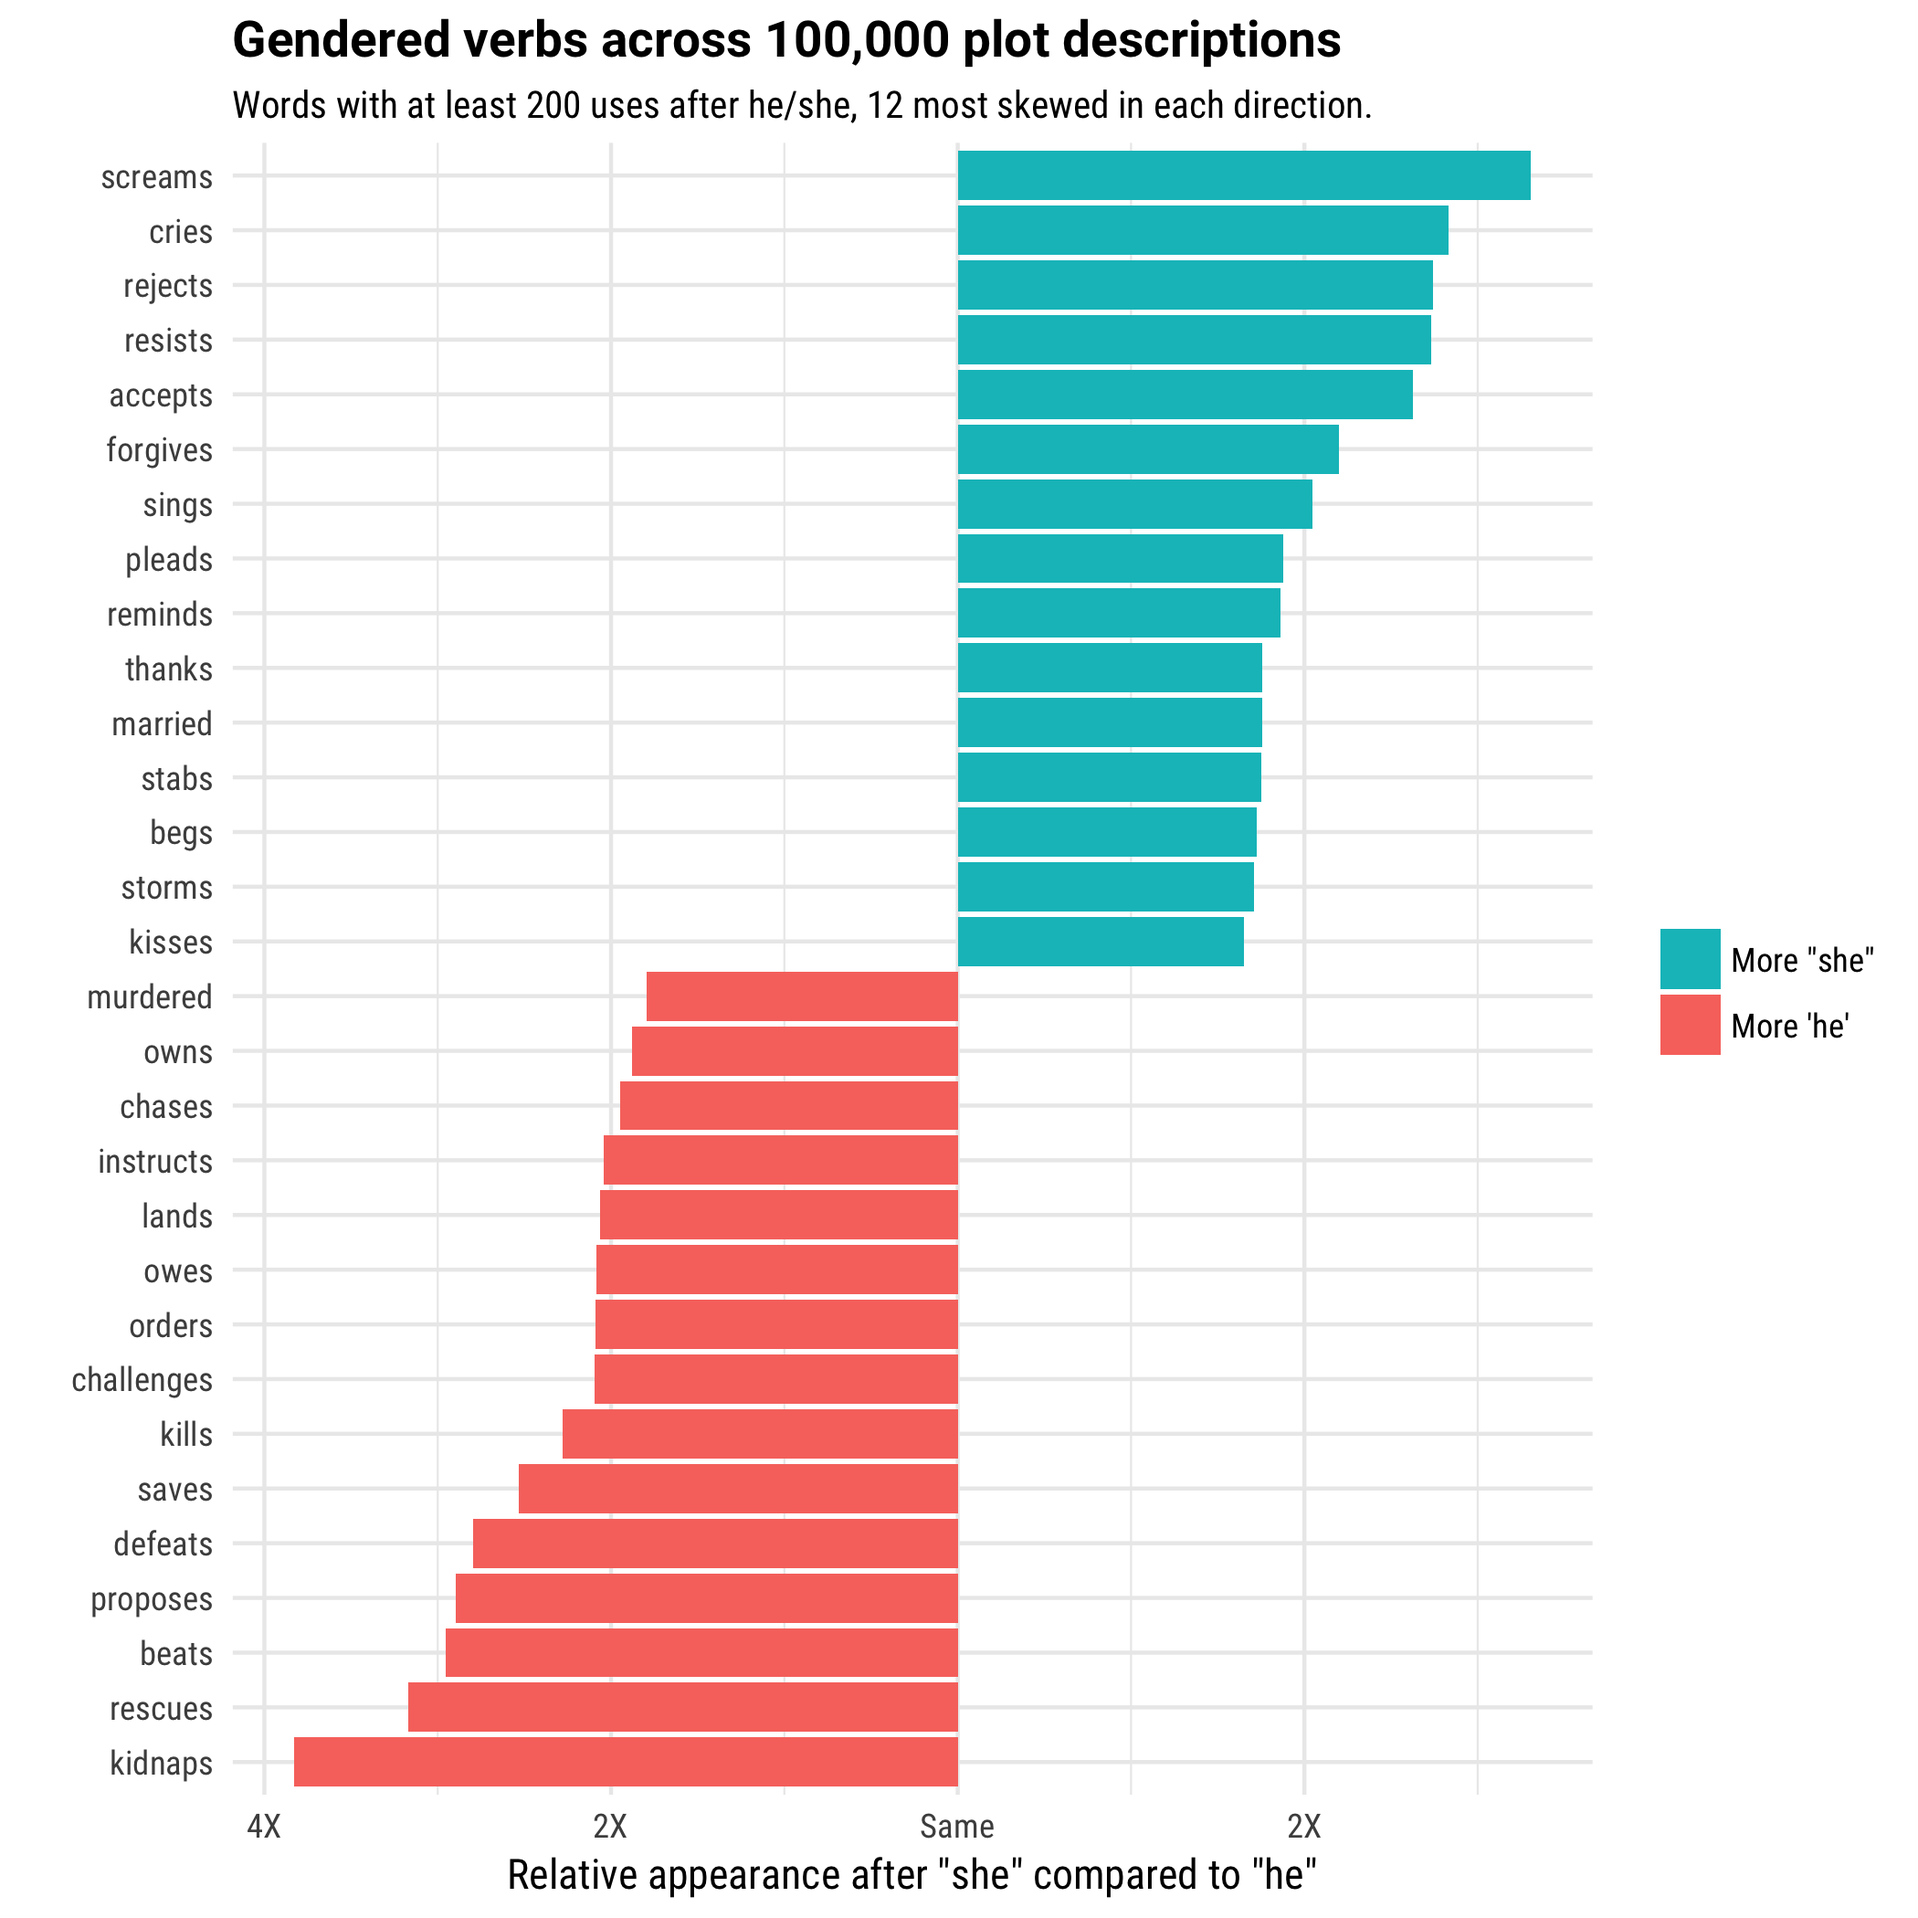
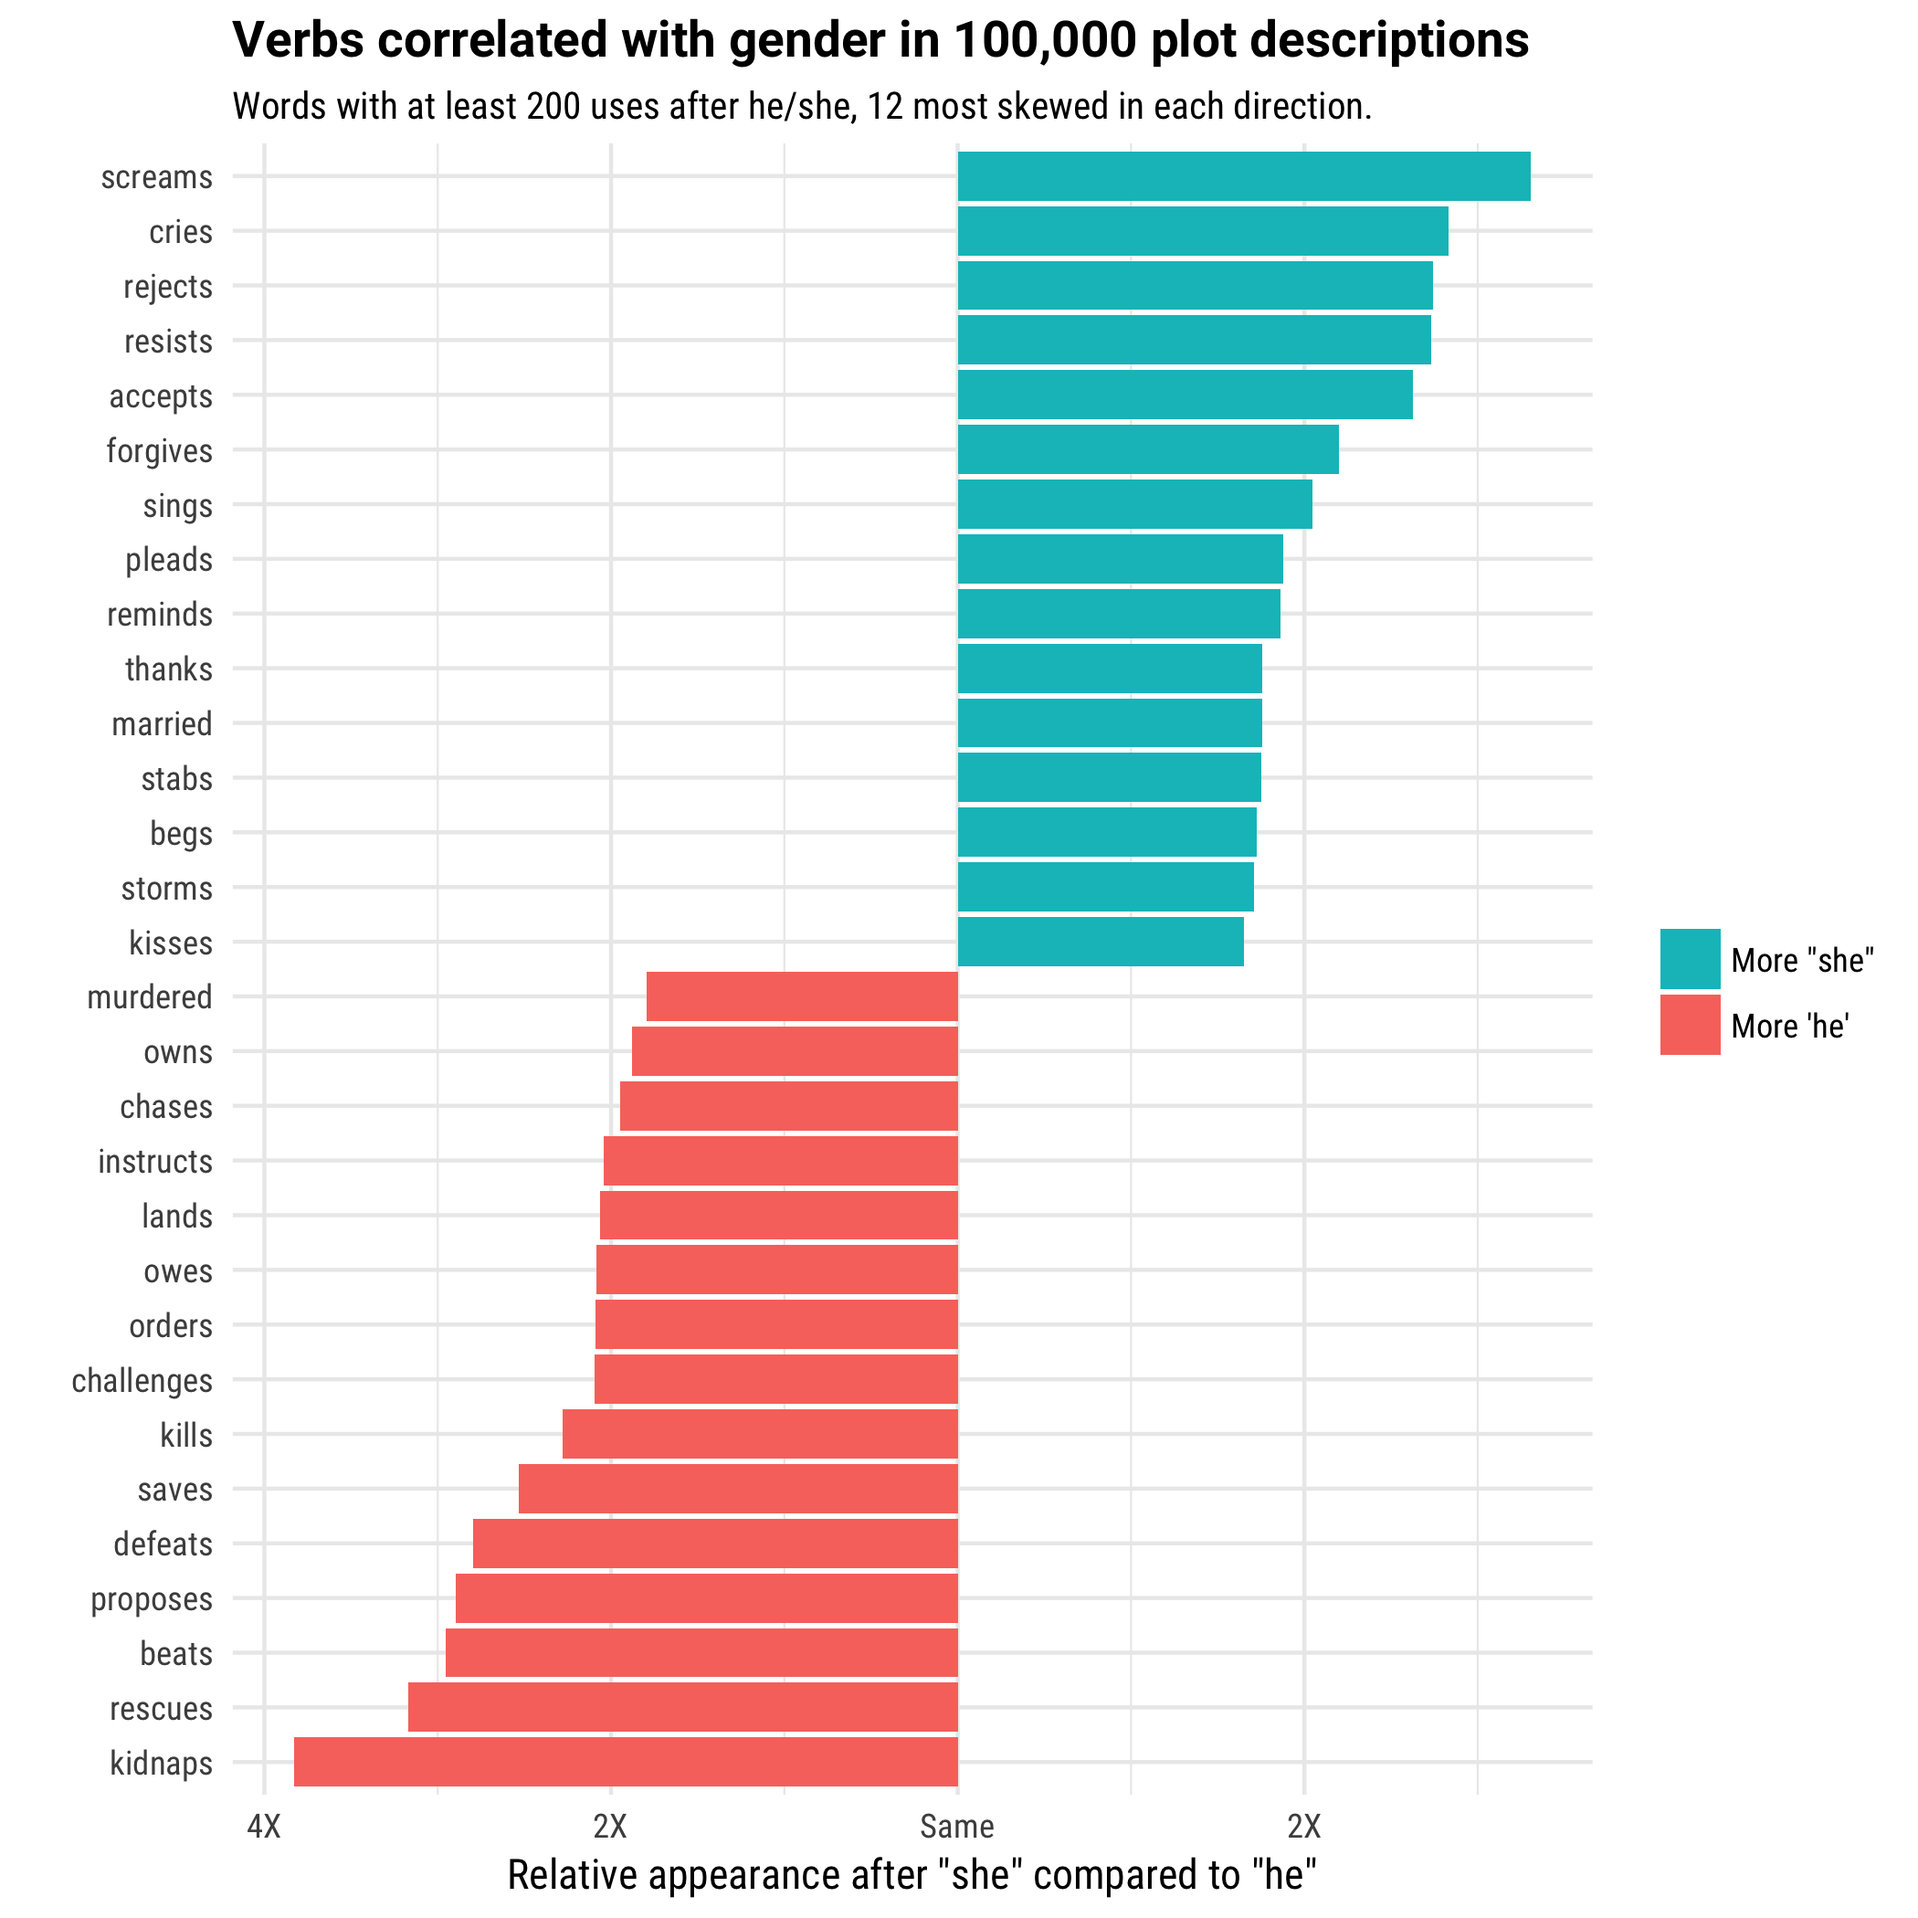
Adjusted some figures and typos

Changed region(s): [[0.1238, 0.0, 0.8048, 0.0619]]

diff --git a/_posts/2017-04-27-tidytext-gender-plots.md b/_posts/2017-04-27-tidytext-gender-plots.md
@@ -141,5 +141,5 @@ I'd also note that we could expand the analysis to include not only pronouns but
 
 Again, the full code for this post is available [here](https://github.com/dgrtwo/dgrtwo.github.com/blob/master/_R/2017-04-27-tidytext-gender-plots.Rmd), and I hope others explore this data more deeply.
 
-[^binary]: Gender is not a binary, so please note that this analysis is examining how the Wikipedia description's author refers to the character. For exampele, we miss cases of [singular they](https://en.wikipedia.org/wiki/Gender-neutral_language), but it would be challenging to separate it from the more common plural.
+[^binary]: Gender is not a binary, so please note that this analysis is examining how the Wikipedia description's author refers to the character. For example, we miss cases of [singular they](https://en.wikipedia.org/wiki/Gender-neutral_language), but it would be challenging to separate it from the more common plural.
 [^himself]: I'm also skipping the words "himself" and "herself", which are the most gender-shifted words but aren't interesting for our purposes.
